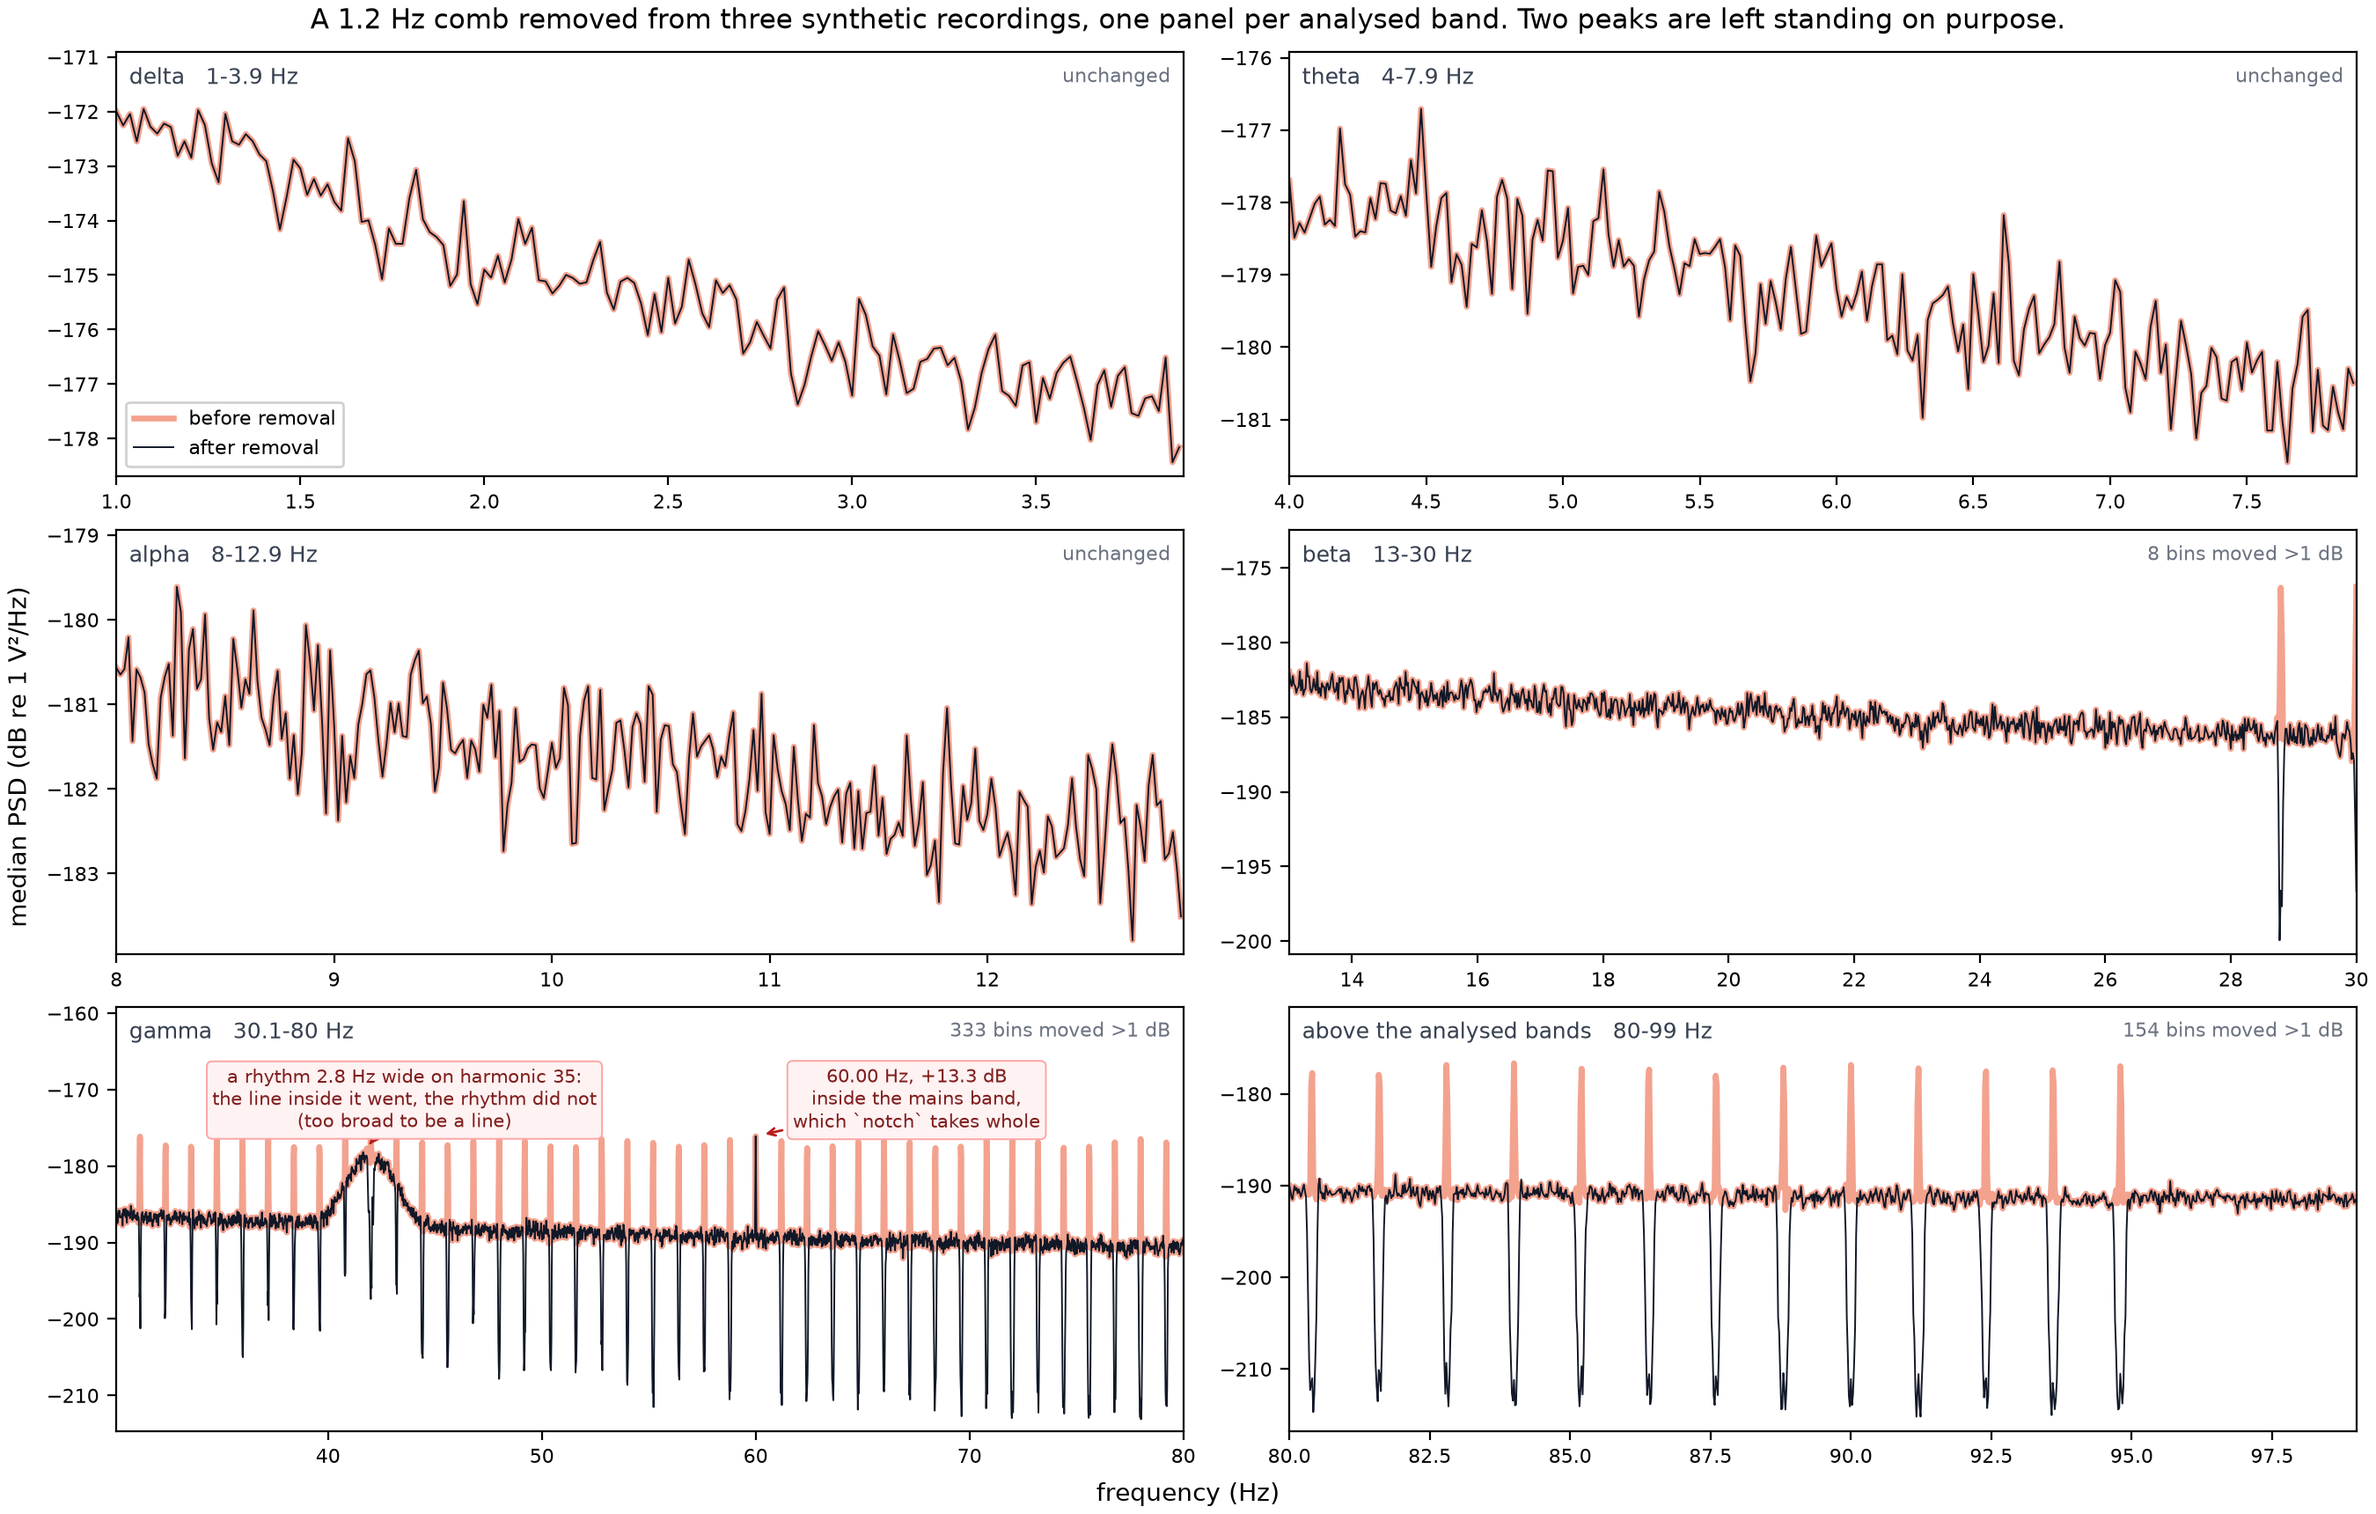
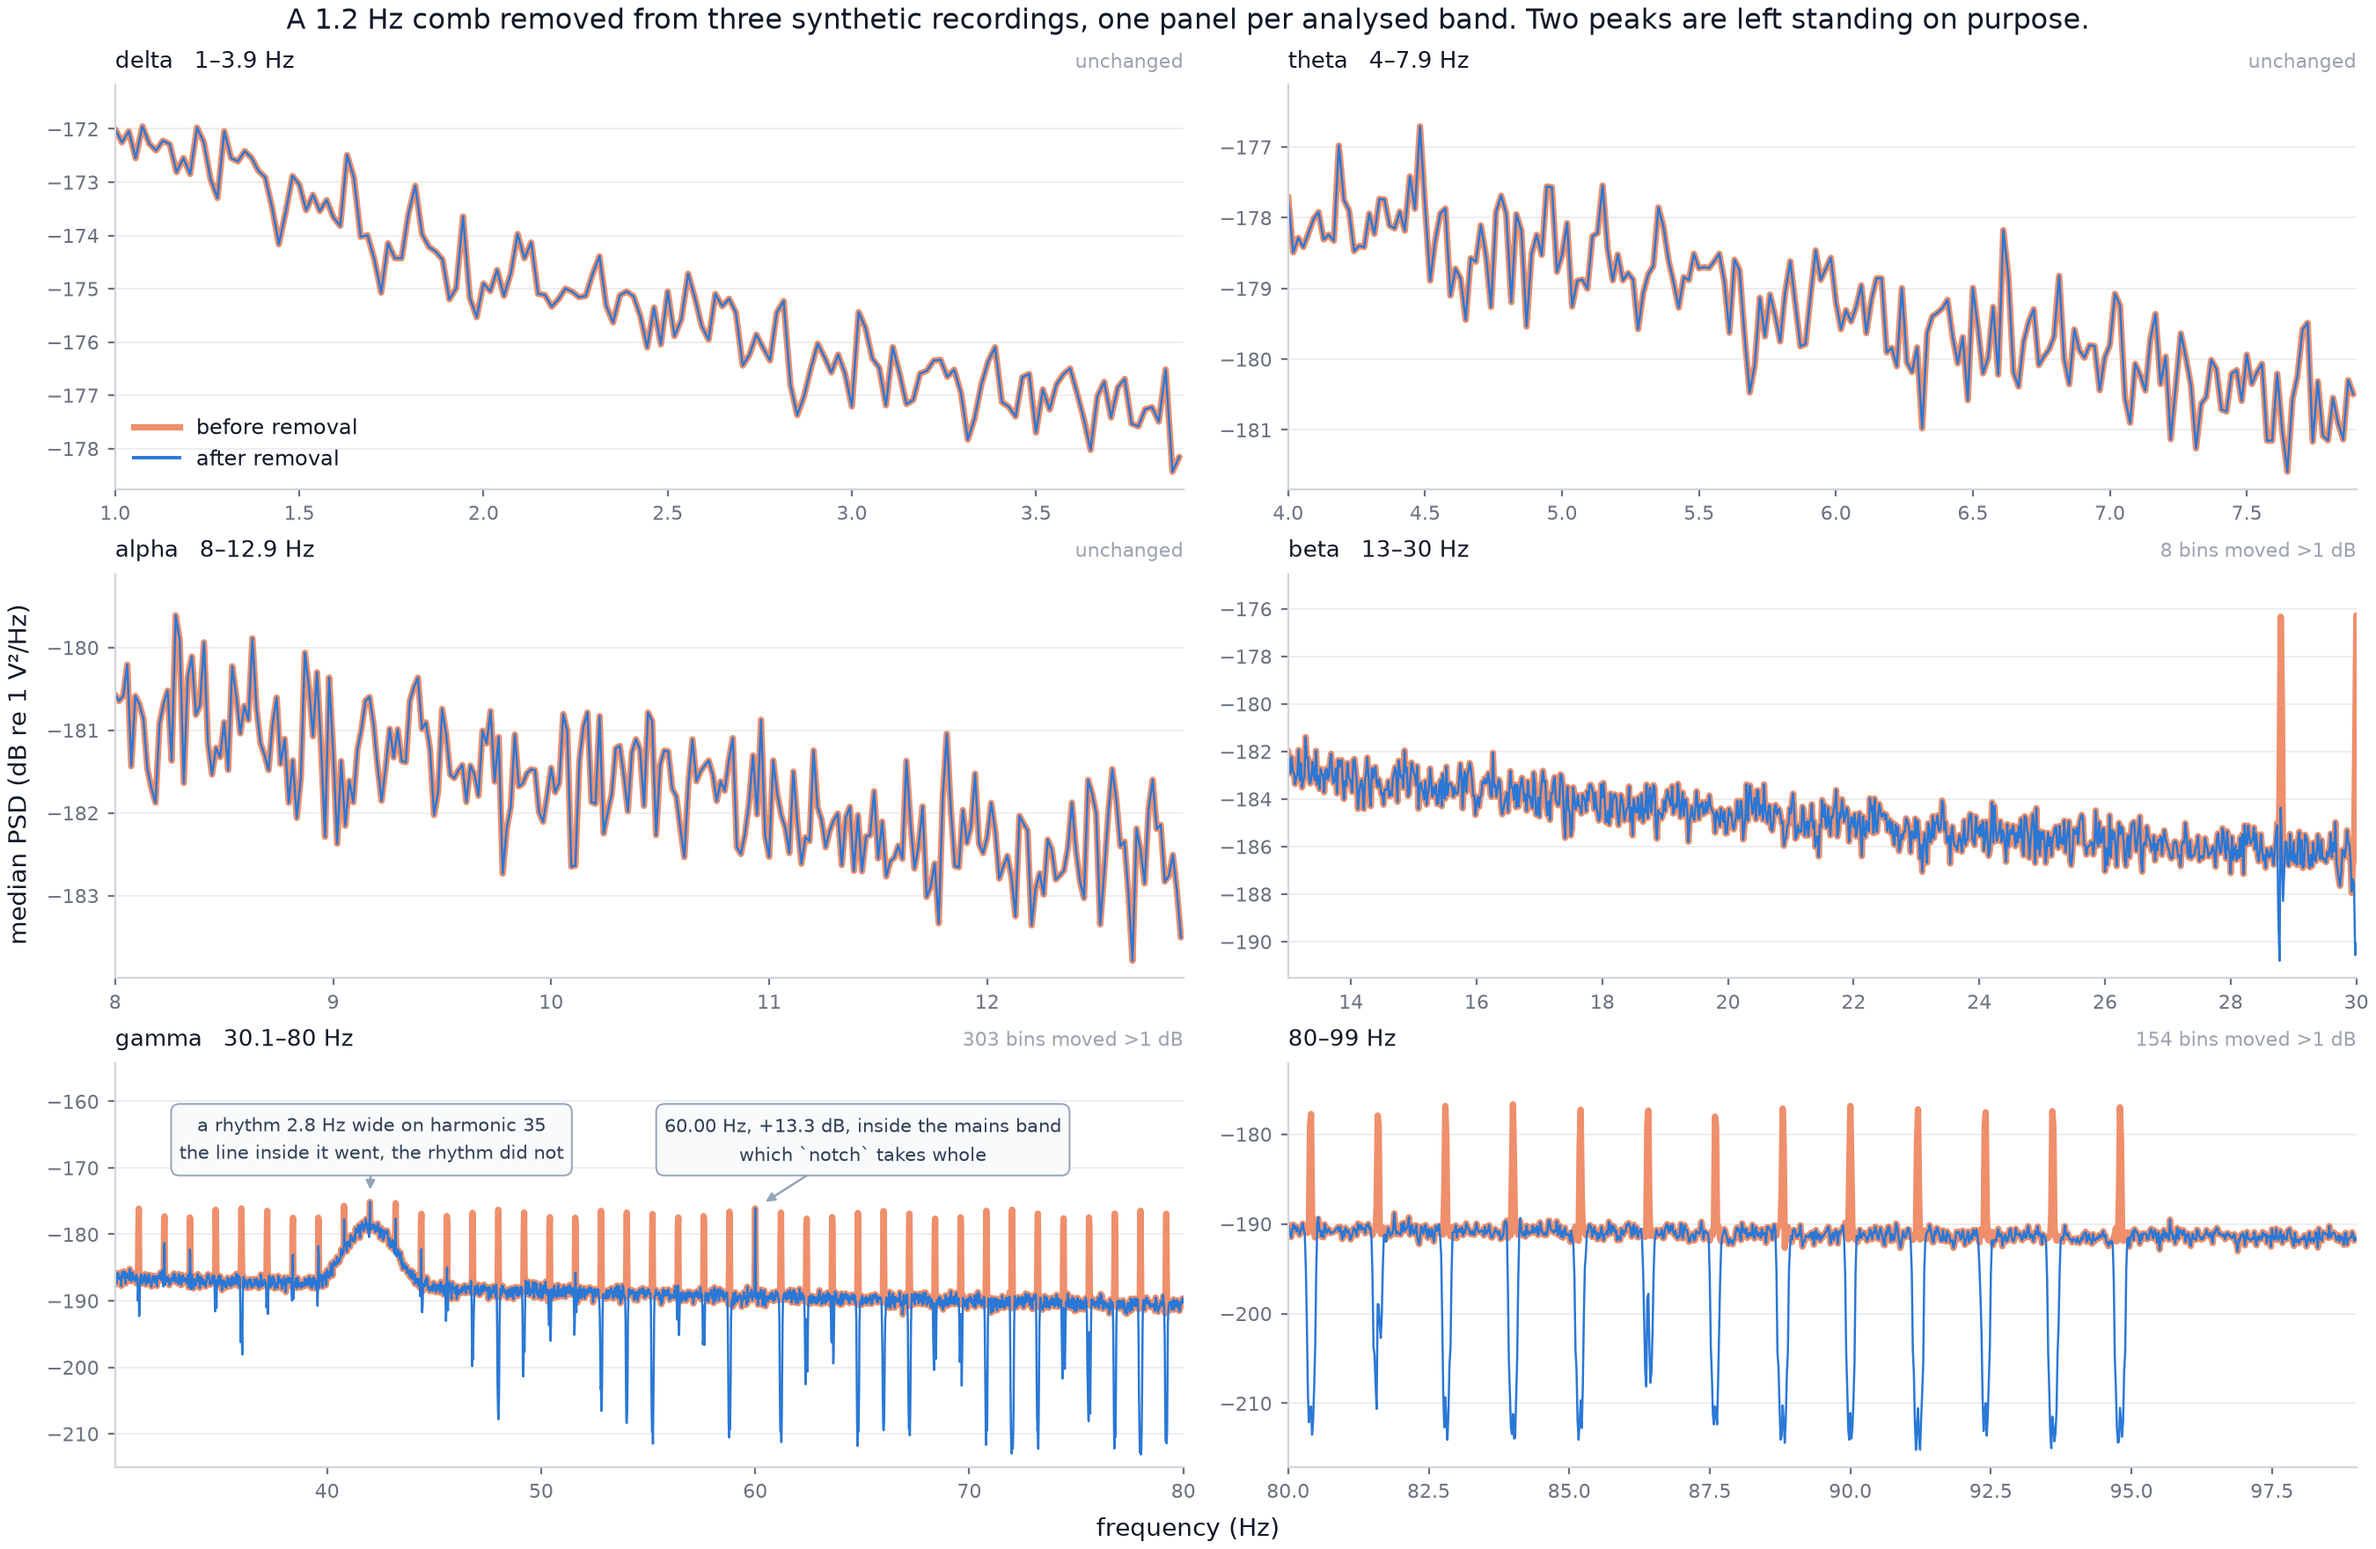
Ask the authorization test about its targets, not about every bin
`_authorize_channel_targets` re-tests each planned target per window and channel with
Thomson's F, and compared against the critical value `thomson_f_statistics` returns.
That value is Bonferroni over one sample per time point -- 13500 in a 54 s window at
250 Hz -- because it is built for MNE's automatic detector, which sweeps a whole
spectrum for lines nobody named. This function is handed a target list the comb fit
already produced, so the family is that list: 56 harmonics, not 13500 bins.

Each target counts once rather than once per bin because `residual_search_hz` spans
0.3 Hz against a 0.6 Hz multitaper bandwidth -- the statistics inside a reach are one
test seen several times.

On the synthetic demonstration the old family authorised about half the
(window x channel) decisions, so the plan named a harmonic and the window vetoed it:
comb prominence fell only 12.3 dB to 7.1 dB median, 14.6 dB worst residual, and the
cohort residual criterion refused all three recordings. It now falls to 1.3 dB median,
6.0 dB worst, every cohort criterion passes, and off-line spectrum moves at most
0.055 dB. Band cost rises from 0.099 to 0.133 of 28-95 Hz, which is what subtracting
the targets that were planned all along actually costs.

docs/psd_before_after.png is regenerated from the workflow, in the new design.

diff --git a/src/decomb/remove.py b/src/decomb/remove.py
@@ -2620,7 +2620,29 @@ def _authorize_channel_targets(
     plan: RunRemovalPlan,
     settings: RemovalSettings,
 ) -> RunRemovalPlan:
-    """Authorize candidate targets independently in every EEG channel and window."""
+    """Authorize candidate targets independently in every EEG channel and window.
+
+    The question here is not the one MNE's automatic detector asks. That detector sweeps a
+    whole spectrum for lines nobody named, so its family is every frequency it might have
+    stopped at, and the critical value `thomson_f_statistics` returns carries that
+    correction. This function is handed a target list the comb fit has already produced:
+    it asks, of each named frequency, whether this channel carries a line there. The family
+    is that list.
+
+    The gap between the two is not a detail. The shipped correction is Bonferroni over one
+    sample per time point -- 13500 of them in a 54 s window at 250 Hz -- against 56 comb
+    harmonics actually being asked about, and it costs about a factor of two in the
+    critical value. Applied to a 1.2 Hz comb standing 12 dB over its background, it
+    authorised roughly half of the (window x channel) decisions and left the rest of the
+    comb in the recording: the plan named the harmonic, the window vetoed it, and the
+    residual criterion in `apply` then refused the whole cohort over lines the removal had
+    been asked to take.
+
+    Each target counts once rather than once per bin, because the reach searched around it
+    is narrower than the multitaper bandwidth: `residual_search_hz` spans 0.3 Hz against a
+    0.6 Hz bandwidth, so the statistics inside a reach are one test seen several times, not
+    several tests.
+    """
     import mne
 
     picks = mne.pick_types(raw.info, eeg=True, exclude=())
@@ -2631,12 +2653,13 @@ def _authorize_channel_targets(
     for window in plan.windows:
         start, stop = window.bounds
         data = raw.get_data(picks=picks, start=start, stop=stop)
-        frequencies, statistic, threshold, _ = estimators.thomson_f_statistics(
+        frequencies, _, _, probabilities = estimators.thomson_f_statistics(
             data,
             sampling_frequency_hz=sampling_frequency_hz,
             bandwidth_hz=settings.mt_bandwidth,
             family_alpha=settings.residual_family_alpha,
         )
+        level = settings.residual_family_alpha / max(len(window.targets_hz), 1)
         channel_targets = []
         channel_widths = []
         for channel_index in range(data.shape[0]):
@@ -2645,7 +2668,7 @@ def _authorize_channel_targets(
             for target, width in zip(window.targets_hz, window.notch_widths_hz):
                 reach = max(float(width) / 2.0, settings.residual_search_hz)
                 inside = np.abs(frequencies - target) <= reach
-                if np.any(statistic[channel_index, inside] > threshold):
+                if np.any(probabilities[channel_index, inside] < level):
                     targets.append(float(target))
                     widths.append(float(width))
             channel_targets.append(tuple(targets))

diff --git a/tests/test_remove.py b/tests/test_remove.py
@@ -379,6 +379,59 @@ def test_continuous_residual_support_reaches_every_overlapping_synthesis_window(
     assert routed.windows[2].channel_residual_targets_hz[0] == ()
 
 
+def _comb_window_plan(n_times: int) -> remove.RunRemovalPlan:
+    """One window carrying the whole fitted comb as its candidate targets."""
+    estimate = _estimate_for_study_test()
+    targets = estimate.harmonic_positions_hz
+    return remove.RunRemovalPlan(
+        model=None,
+        windows=(
+            remove.AdaptiveWindowRemovalPlan(
+                bounds=(0, n_times),
+                estimate=estimate,
+                targets_hz=targets,
+                notch_widths_hz=tuple(0.2 for _ in targets),
+                narrow_targets_hz=(),
+            ),
+        ),
+    )
+
+
+def test_channel_authorization_asks_only_about_the_targets_it_was_given():
+    """A line the comb fit already planned must not need whole-grid significance.
+
+    The multiplicity of this test is the target list, not the spectrum: the fit has
+    already said where to look, and each target's neighbourhood is one test because the
+    multitaper bandwidth is wider than the reach searched around it. Corrected against
+    every bin instead, a real line an order of magnitude over the noise is dropped, and
+    the plan quietly stops removing what it planned to remove.
+    """
+    import mne
+
+    sampling_frequency_hz = 250.0
+    n_times = int(sampling_frequency_hz * 54.0)
+    times = np.arange(n_times) / sampling_frequency_hz
+    planted_hz = 40.8
+    quiet_hz = 55.2
+
+    rng = np.random.default_rng(7)
+    data = rng.normal(size=(2, n_times)) * 1e-6
+    data += 6e-8 * np.sin(2.0 * np.pi * planted_hz * times)
+    raw = mne.io.RawArray(
+        data,
+        mne.create_info(["Cz", "Pz"], sampling_frequency_hz, "eeg"),
+        verbose="ERROR",
+    )
+
+    authorized = remove._authorize_channel_targets(
+        raw, _comb_window_plan(n_times), remove.RemovalSettings()
+    )
+    window = authorized.windows[0]
+
+    assert all(planted_hz in targets for targets in window.channel_targets_hz)
+    assert not any(quiet_hz in targets for targets in window.channel_targets_hz)
+
+
 def _estimate_for_study_test():
     return estimators.CombEstimate(
         fundamental_hz=1.2,
